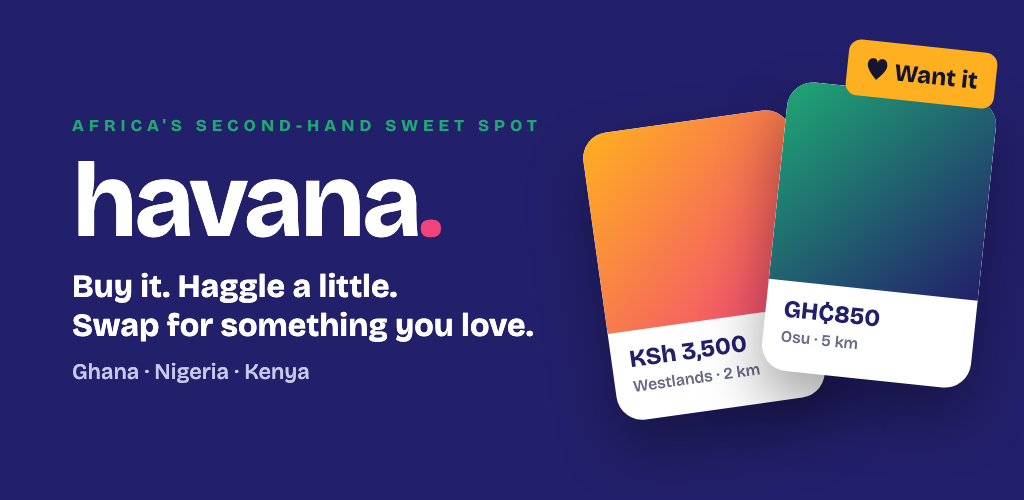
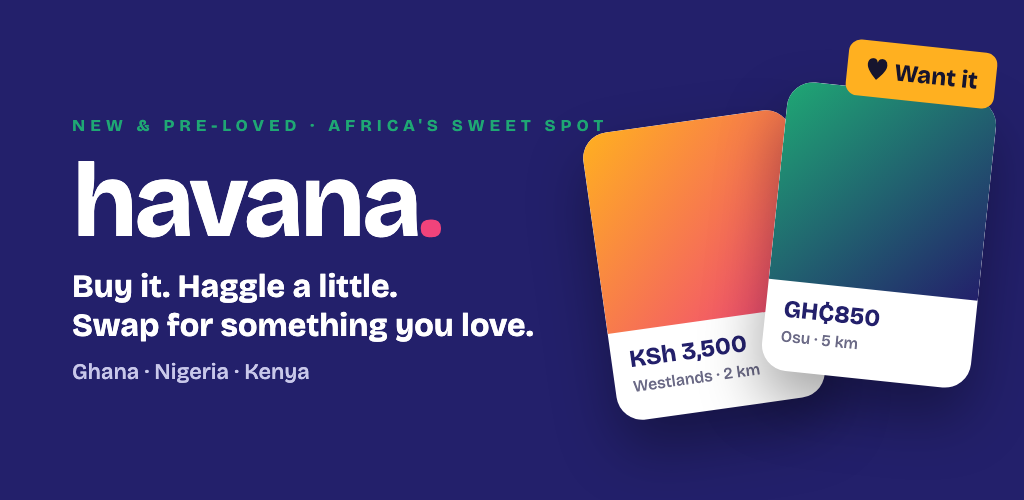
New goods too: Brand new / Used labels, Browse condition filter, 'new & pre-loved' wording

Changed region(s): [[0.0625, 0.24, 0.5938, 0.27]]

diff --git a/website/index.html b/website/index.html
@@ -3,11 +3,11 @@
 <head>
   <meta charset="utf-8">
   <meta name="viewport" content="width=device-width, initial-scale=1">
-  <title>Havana · Buy, haggle and swap second-hand across Africa</title>
-  <meta name="description" content="Havana is a fun, swipe-to-shop marketplace for second-hand clothes, shoes, furniture and electronics, built for Africa and starting in Accra. Buy, haggle a little, or swap for something you love.">
+  <title>Havana · Buy, haggle and swap new and pre-loved finds across Africa</title>
+  <meta name="description" content="Havana is a fun, swipe-to-shop marketplace for new and pre-loved clothes, shoes, furniture and electronics, built for Africa and starting in Accra. Buy, haggle a little, or swap for something you love.">
   <meta name="theme-color" content="#23206B">
   <meta http-equiv="Content-Security-Policy" content="default-src 'self'; img-src 'self' data:; style-src 'self'; font-src 'self'; script-src 'self'; connect-src 'self'; base-uri 'self'; form-action 'none'; frame-ancestors 'none'">
-  <meta property="og:title" content="Havana · Africa's second-hand sweet spot">
+  <meta property="og:title" content="Havana · Africa's sweet spot for new and pre-loved finds">
   <meta property="og:description" content="Swipe to shop, haggle in chat, or swap one good thing for another. Built for Africa, starting in Accra.">
   <meta property="og:image" content="https://havana-web.onrender.com/assets/og.jpg">
   <link rel="icon" href="assets/favicon-32.png" sizes="32x32">
@@ -52,9 +52,9 @@
   <main id="main">
     <section class="hero" data-bg="hero" aria-labelledby="hero-title">
       <div class="hero-copy">
-        <p class="eyebrow">Africa's second-hand sweet spot</p>
+        <p class="eyebrow">New &amp; pre-loved · Africa's sweet spot</p>
         <h1 id="hero-title">Good things.<br>New stories.</h1>
-        <p class="lede">Swipe through pre-loved clothes, shoes, bags, furniture and electronics near you. Buy it, haggle a little, or swap for something you love.</p>
+        <p class="lede">Swipe through brand-new and pre-loved clothes, shoes, bags, furniture and electronics near you. Every listing says if it's new or used. Buy it, haggle a little, or swap for something you love.</p>
         <div class="hero-actions">
           <a class="btn btn-mango" href="#download">Get Havana for Android</a>
           <a class="btn btn-ghost" href="#how">See how it works</a>
@@ -133,7 +133,7 @@
     <section id="why" class="section" data-bg="why" aria-labelledby="why-title">
       <p class="eyebrow">Why Havana?</p>
       <h2 id="why-title">Life changes. Good things can keep going.</h2>
-      <p class="lede why-intro">Moving rooms, starting school, making space, or watching your budget? Havana brings local second-hand finds, offers, and swaps into one place.</p>
+      <p class="lede why-intro">Moving rooms, starting school, making space, or watching your budget? Havana brings local finds, new and used, plus offers and swaps into one place.</p>
       <div class="reasons">
         <article class="way"><p class="step-label">For your budget</p><h3>Find an option that fits</h3><p>When you need a chair, a pair of shoes, or something for your room, explore pre-loved options and discuss the price with the seller before deciding.</p></article>
         <article class="way"><p class="step-label">For your space</p><h3>Pass on what you’ve outgrown</h3><p>Moving out or clearing a cupboard? List the things you no longer use so someone nearby can give them another home.</p></article>

diff --git a/backend/src/legal.ts b/backend/src/legal.ts
@@ -15,7 +15,7 @@ export class LegalController {
   privacy() {
     return page('Havana privacy policy', `
 <h2>Privacy policy</h2><p><i>Last updated: 26 September 2026</i></p>
-<p>Havana is a second-hand marketplace for Africa, currently in Ghana, Nigeria and Kenya, where people buy, haggle and swap used items. This policy explains what we collect, why, and your choices. Questions: ${contact()}.</p>
+<p>Havana is a marketplace for Africa, currently in Ghana, Nigeria and Kenya, where people buy, haggle and swap new and pre-loved items. This policy explains what we collect, why, and your choices. Questions: ${contact()}.</p>
 <h3>What we collect</h3><ul>
 <li><b>Account:</b> your phone number and/or email (to send login codes), your name, your country and your area (for example "Osu" or "Westlands").</li>
 <li><b>Location (optional):</b> only if you allow it, to show items near you and to place your listings. We store it rounded to about 1 km, never your exact spot, and <b>other people never see it</b>: only the area you type and a distance rounded to the nearest 0.5 km.</li>
@@ -41,7 +41,7 @@ export class LegalController {
 <p>Havana works because neighbours trust each other. By using Havana you confirm you are <b>18 or older</b> and agree to these rules.</p>
 <h3>Be kind and honest</h3><ul>
 <li>No insults, threats, harassment, hate speech or sexual messages.</li>
-<li>Describe items truthfully, with your own photos. Say if something is damaged.</li>
+<li>Describe items truthfully, with your own photos. Only mark something <b>Brand new</b> if it is unused, and say if anything is damaged.</li>
 <li>Only list things you own and have the right to sell or swap.</li></ul>
 <h3>Items you can't list</h3><ul>
 <li>Weapons, ammunition, explosives and their parts</li>
@@ -49,7 +49,7 @@ export class LegalController {
 <li>Stolen goods, counterfeits, fake documents, IDs or money</li>
 <li>Live animals, and products from protected animals (such as ivory)</li>
 <li>Adult content, and anything illegal in Ghana, Nigeria or Kenya</li>
-<li>Services, jobs, property rentals and digital accounts: Havana is for physical second-hand items</li></ul>
+<li>Services, jobs, property rentals and digital accounts: Havana is for physical items, new or used</li></ul>
 <h3>Trade safely</h3><ul>
 <li>Meet in a busy public place, in daylight if you can. Bring a friend for big items.</li>
 <li>Check the item before you pay. Pay the seller directly (mobile money such as MoMo or M-Pesa, or cash) at the handover.</li>

diff --git a/backend/test/api.test.ts b/backend/test/api.test.ts
@@ -504,7 +504,7 @@ test('browse lists every live listing in my country, with search, filters, sorti
   for(const u of [seller,buyer]) await http.patch('/me').set(as(u)).send({country:'KE',latitude:-1.29,longitude:36.82}).expect(200);
   const desk=await listing(seller,{title:'Zebrawood study desk',category:'FURNITURE',swap:false,price:9000,area:'Kilimani',latitude:-1.29,longitude:36.78});
   const kettle=await listing(seller,{title:'Electric kettle',category:'HOUSEHOLD',sell:false,swapValue:1500,area:'Westlands',latitude:-1.27,longitude:36.81});
-  const lamp=await listing(seller,{title:'Reading lamp',description:'Warm light, matches a zebrawood desk.',category:'HOUSEHOLD',swap:false,price:1200,area:'Kasarani',latitude:-1.22,longitude:36.90});
+  const lamp=await listing(seller,{title:'Reading lamp',description:'Warm light, matches a zebrawood desk.',category:'HOUSEHOLD',condition:'NEW',swap:false,price:1200,area:'Kasarani',latitude:-1.22,longitude:36.90});
   // A card I already passed on still shows in browse (that's the point of it).
   await http.post('/swipes').set(as(buyer)).send({itemId:desk,mode:'SHOP',direction:'LEFT'}).expect(201);
   const all=(await http.get('/browse?category=FURNITURE').set(as(buyer)).expect(200)).body;
@@ -521,6 +521,10 @@ test('browse lists every live listing in my country, with search, filters, sorti
   const near=(await http.get('/browse?sort=near').set(as(buyer)).expect(200)).body.items;
   assert.ok(near.every((i:{distanceKm:number},n:number)=>n===0||near[n-1].distanceKm<=i.distanceKm));
   assert.equal((await http.get('/browse').set(as(buyer)).expect(200)).body.nextOffset,null);
+  // Brand new vs used (every other condition).
+  assert.deepEqual((await http.get('/browse?category=HOUSEHOLD&condition=new').set(as(buyer)).expect(200)).body.items.map((i:{id:string})=>i.id),[lamp]);
+  assert.deepEqual((await http.get('/browse?category=HOUSEHOLD&condition=used').set(as(buyer)).expect(200)).body.items.map((i:{id:string})=>i.id),[kettle]);
+  await http.get('/browse?condition=mint').set(as(buyer)).expect(400);
   await http.get('/browse?sort=cheapest').set(as(buyer)).expect(400);
 });
 

diff --git a/mobile/app/(tabs)/browse.tsx b/mobile/app/(tabs)/browse.tsx
@@ -27,6 +27,7 @@ export default function Browse() {
   const [category, setCategory] = useState('ALL');
   const [trade, setTrade] = useState('all');
   const [sort, setSort] = useState('new');
+  const [condition, setCondition] = useState('all');
   const active = useScreenActive();
   const me = useQuery({ queryKey: ['me'], queryFn: () => api<User>('/me') });
   useEffect(() => {
@@ -42,12 +43,13 @@ export default function Browse() {
       q,
       category,
       trade,
+      condition,
       sort,
     ],
     enabled: active && !!me.data,
     initialPageParam: 0,
     queryFn: ({ pageParam, signal }) => {
-      const params = new URLSearchParams({ q, trade, sort, offset: String(pageParam) });
+      const params = new URLSearchParams({ q, trade, condition, sort, offset: String(pageParam) });
       if (category !== 'ALL') params.set('category', category);
       return api<{ items: Item[]; nextOffset: number | null }>(
         `/browse?${params}`,
@@ -81,6 +83,14 @@ export default function Browse() {
       </View>
       <View>
         <Chips values={['all', 'sell', 'swap']} value={trade} onChange={setTrade} />
+      </View>
+      <View>
+        <Chips
+          values={['all', 'new', 'used']}
+          labels={{ all: 'New & used', new: 'Brand new', used: 'Used' }}
+          value={condition}
+          onChange={setCondition}
+        />
       </View>
       <View>
         <Chips

diff --git a/mobile/app/(tabs)/profile.tsx b/mobile/app/(tabs)/profile.tsx
@@ -1,8 +1,7 @@
 import React, { useCallback, useState } from 'react';
-import { Modal, Platform, Pressable, ScrollView, View } from 'react-native';
+import { Linking, Modal, Platform, Pressable, ScrollView, View } from 'react-native';
 import { router, useFocusEffect } from 'expo-router';
 import { useMutation, useQuery, useQueryClient } from '@tanstack/react-query';
-import * as Linking from 'expo-linking';
 import { useLoginMethods } from '../../src/login-methods';
 import { api, photoUrl } from '../../src/api';
 import { withDeadline } from '../../src/deadline';
@@ -55,7 +54,7 @@ export default function Profile() {
   const unblock = useMutation({
     mutationFn: (userId: string) => api(`/blocks/${userId}`, 'DELETE'),
     onSuccess: () => {
-      for (const key of ['blocks', 'feed', 'browse', 'inbox', 'chat'])
+      for (const key of ['blocks', 'feed', 'browse', 'inbox', 'chat', 'saved', 'item'])
         void cache.invalidateQueries({ queryKey: [key] });
     },
   });

diff --git a/mobile/app/(tabs)/list.tsx b/mobile/app/(tabs)/list.tsx
@@ -10,7 +10,19 @@ import { api } from '../../src/api';
 import { photoForm } from '../../src/upload-form';
 import { User } from '../../src/types';
 import { countryOf } from '../../src/countries';
-import { Button, C, Chips, ErrorBox, Field, Page, T, Title, categories, s } from '../../src/ui';
+import {
+  Button,
+  C,
+  CONDITION_LABELS,
+  Chips,
+  ErrorBox,
+  Field,
+  Page,
+  T,
+  Title,
+  categories,
+  s,
+} from '../../src/ui';
 export default function ListItem() {
   const [photos, setPhotos] = useState<string[]>([]),
     [title, setTitle] = useState(''),
@@ -181,6 +193,7 @@ export default function ListItem() {
       <T style={s.label}>Condition</T>
       <Chips
         values={['NEW', 'LIKE_NEW', 'GOOD', 'FAIR']}
+        labels={CONDITION_LABELS}
         value={condition}
         onChange={setCondition}
         disabled={publish.isPending}

diff --git a/backend/src/market.ts b/backend/src/market.ts
@@ -74,6 +74,7 @@ export class Market {
     const words=q.q?.trim();
     const items=await this.db.item.findMany({where:{ownerId:{notIn:[userId,...hidden]},country:home,status:'LIVE',hidden:false,kind:'ITEM',category:q.category,
       ...(q.trade==='sell'?{sell:true}:q.trade==='swap'?{swap:true}:{}),
+      ...(q.condition==='new'?{condition:'NEW' as const}:q.condition==='used'?{condition:{not:'NEW' as const}}:{}),
       ...(words?{OR:[{title:{contains:words,mode:'insensitive'}},{description:{contains:words,mode:'insensitive'}},{area:{contains:words,mode:'insensitive'}}]}:{})},
       include:{owner:{select:ownerSelect}},orderBy:[{createdAt:'desc'},{id:'desc'}],take:500});
     const [lat,lon]=q.latitude!=null&&q.longitude!=null?[q.latitude,q.longitude]:user.latitude!=null&&user.longitude!=null?[user.latitude,user.longitude]:[...COUNTRIES[home].center];

diff --git a/mobile/src/SwipeCard.tsx b/mobile/src/SwipeCard.tsx
@@ -11,7 +11,7 @@ import Animated, {
   withTiming,
 } from 'react-native-reanimated';
 import { Item, Mode } from './types';
-import { C, T, label, money } from './ui';
+import { C, T, conditionLabel, money } from './ui';
 import { photoUrl, thumbUrl } from './api';
 export function SwipeCard({
   item,
@@ -186,7 +186,7 @@ export function SwipeCard({
             <T style={{ color: C.muted, fontSize: 13 }}>
               {item.area} ·{' '}
               {item.distanceKm != null ? `${item.distanceKm.toFixed(1)} km away · ` : ''}
-              {label(item.condition)}
+              {conditionLabel(item.condition)}
             </T>
             <View style={{ flexDirection: 'row', justifyContent: 'space-between' }}>
               <T style={{ fontSize: 12, color: C.brand }}>{item.owner.name}</T>

diff --git a/backend/src/dto.ts b/backend/src/dto.ts
@@ -47,6 +47,8 @@ export class BrowseDto {
   @IsOptional() @IsString() @MaxLength(60) q?: string;
   @IsOptional() @IsIn(['new','near','price_low','price_high']) sort: 'new'|'near'|'price_low'|'price_high' = 'new';
   @IsOptional() @IsIn(['all','sell','swap']) trade: 'all'|'sell'|'swap' = 'all';
+  /** Brand new only, used only (any other condition), or both. */
+  @IsOptional() @IsIn(['all','new','used']) condition: 'all'|'new'|'used' = 'all';
   @IsOptional() @Type(()=>Number) @IsInt() @Min(0) @Max(480) offset = 0;
   @IsOptional() @Type(()=>Number) @IsNumber() @Min(-90) @Max(90) latitude?: number;
   @IsOptional() @Type(()=>Number) @IsNumber() @Min(-180) @Max(180) longitude?: number;

diff --git a/mobile/store/feature-graphic.html b/mobile/store/feature-graphic.html
@@ -22,7 +22,7 @@
   .tagp{position:absolute;right:28px;top:46px;background:#FFB020;color:#16152E;font-weight:700;font-size:24px;padding:10px 18px;border-radius:12px;transform:rotate(6deg)}
 </style></head><body>
 <div class="wrap">
-  <div class="tag">Africa's second-hand sweet spot</div>
+  <div class="tag">New &amp; pre-loved · Africa's sweet spot</div>
   <div class="logo">havana<span>.</span></div>
   <div class="line">Buy it. Haggle a little.<br>Swap for something you love.</div>
   <div class="sub">Ghana · Nigeria · Kenya</div>

diff --git a/mobile/src/ui.tsx b/mobile/src/ui.tsx
@@ -38,6 +38,15 @@ export const categories = [
   'HOUSEHOLD',
   'OTHER',
 ] as const;
+/** Item condition as buyers see it: new goods are clearly "Brand new", everything else says "Used". */
+export const CONDITION_LABELS: Record<string, string> = {
+  NEW: 'Brand new',
+  LIKE_NEW: 'Used · like new',
+  GOOD: 'Used · good',
+  FAIR: 'Used · fair',
+};
+export const conditionLabel = (condition: string) =>
+  CONDITION_LABELS[condition] ?? label(condition);
 export const label = (s: string) =>
   s
     .toLowerCase()

diff --git a/mobile/app/item/[id].tsx b/mobile/app/item/[id].tsx
@@ -16,6 +16,7 @@ import {
   Safety,
   T,
   Title,
+  conditionLabel,
   label,
   money,
   s,
@@ -74,7 +75,7 @@ export default function ItemDetail() {
       </ScrollView>
       <View style={s.split}>
         <T style={{ color: C.muted, fontSize: 12 }}>
-          {label(item.category)} · {label(item.condition)}
+          {label(item.category)} · {conditionLabel(item.condition)}
         </T>
         <T style={{ color: C.leaf }}>{label(item.status)}</T>
       </View>
